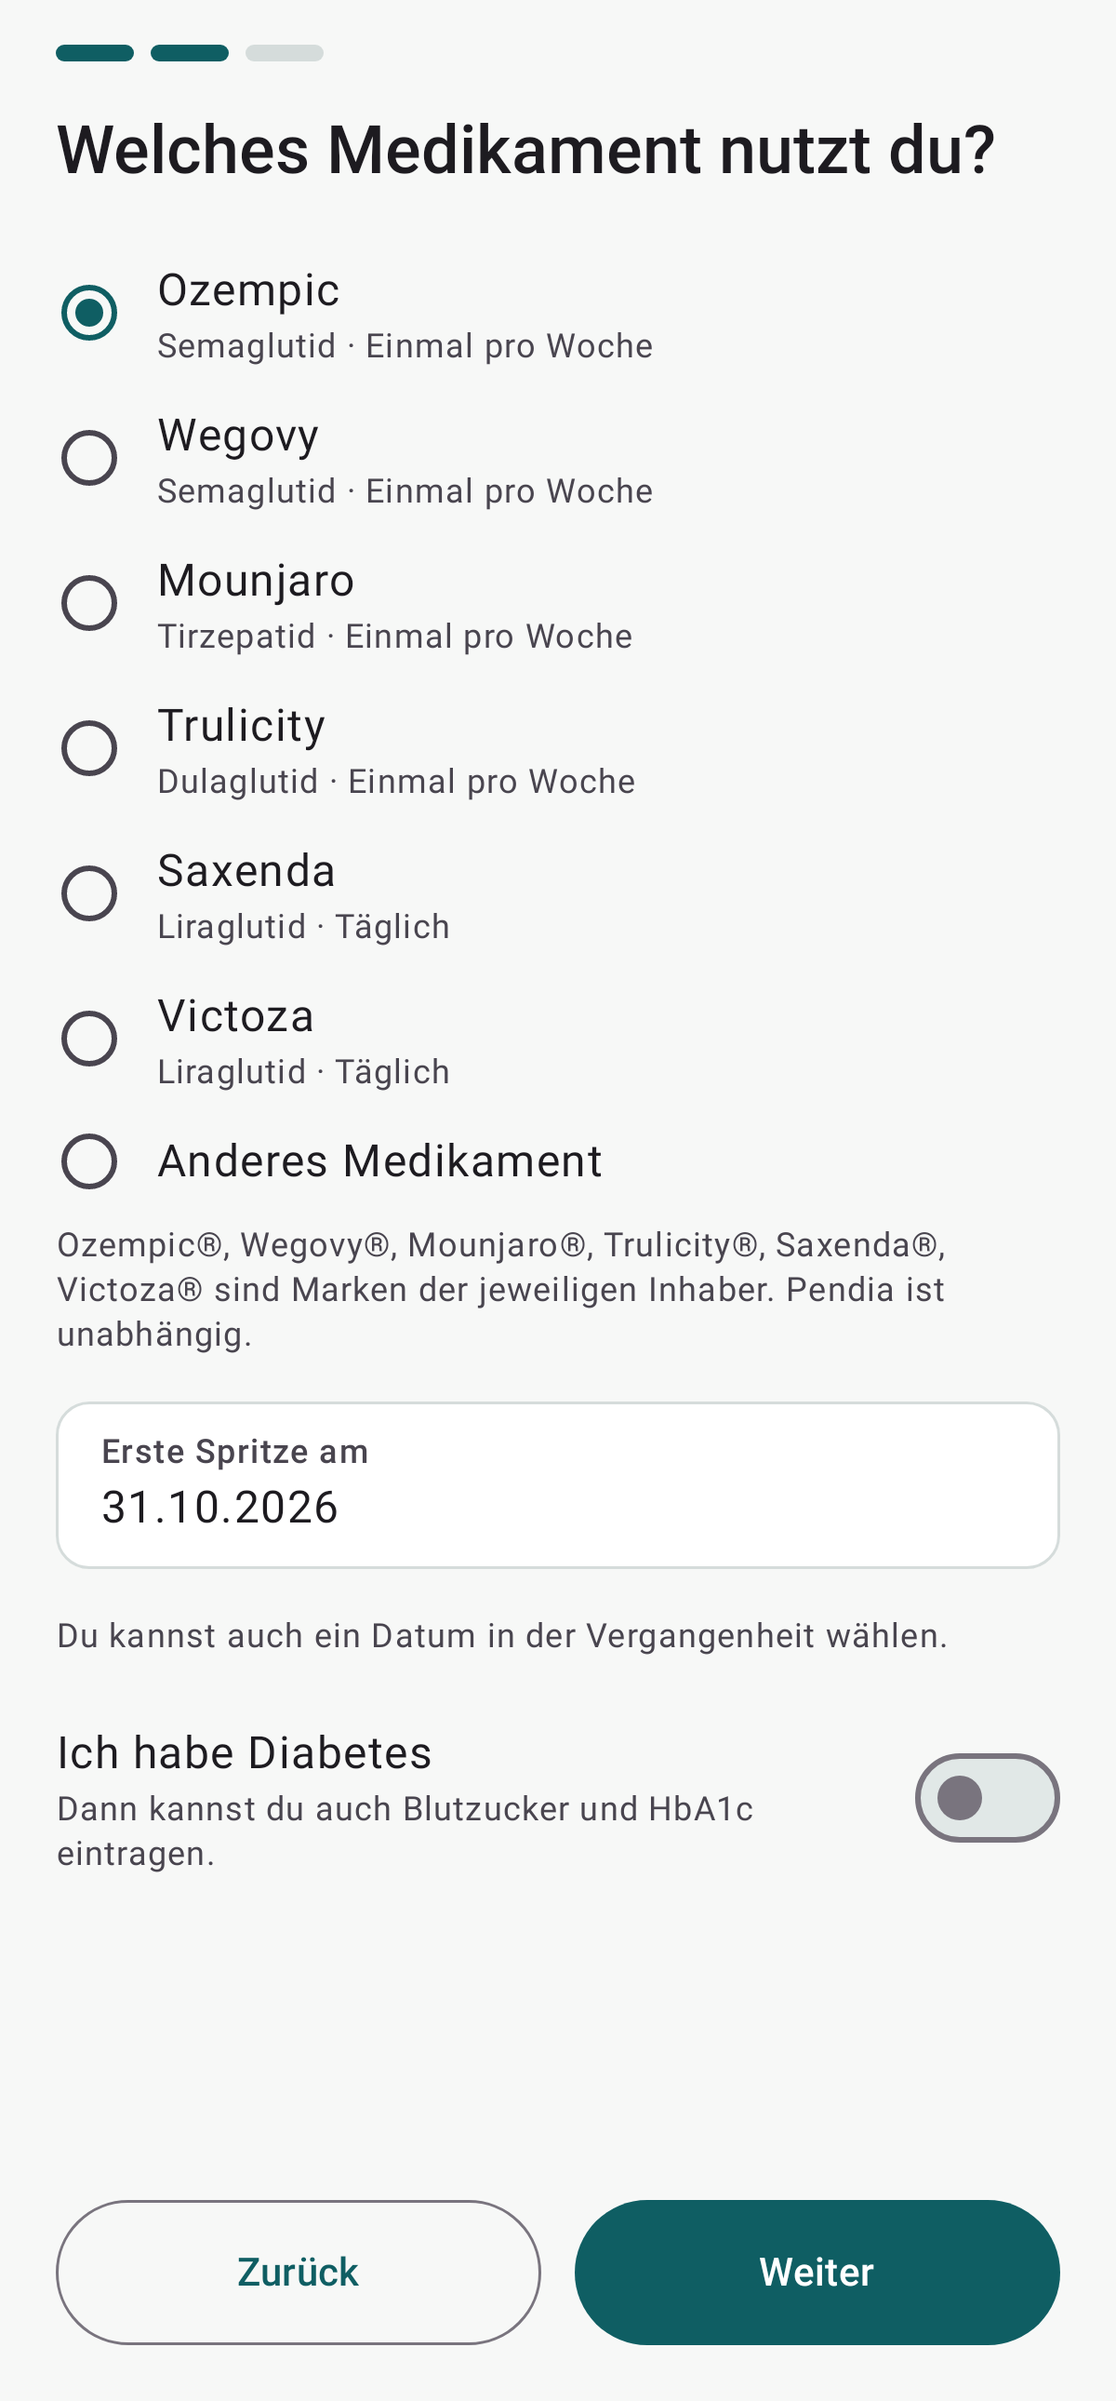
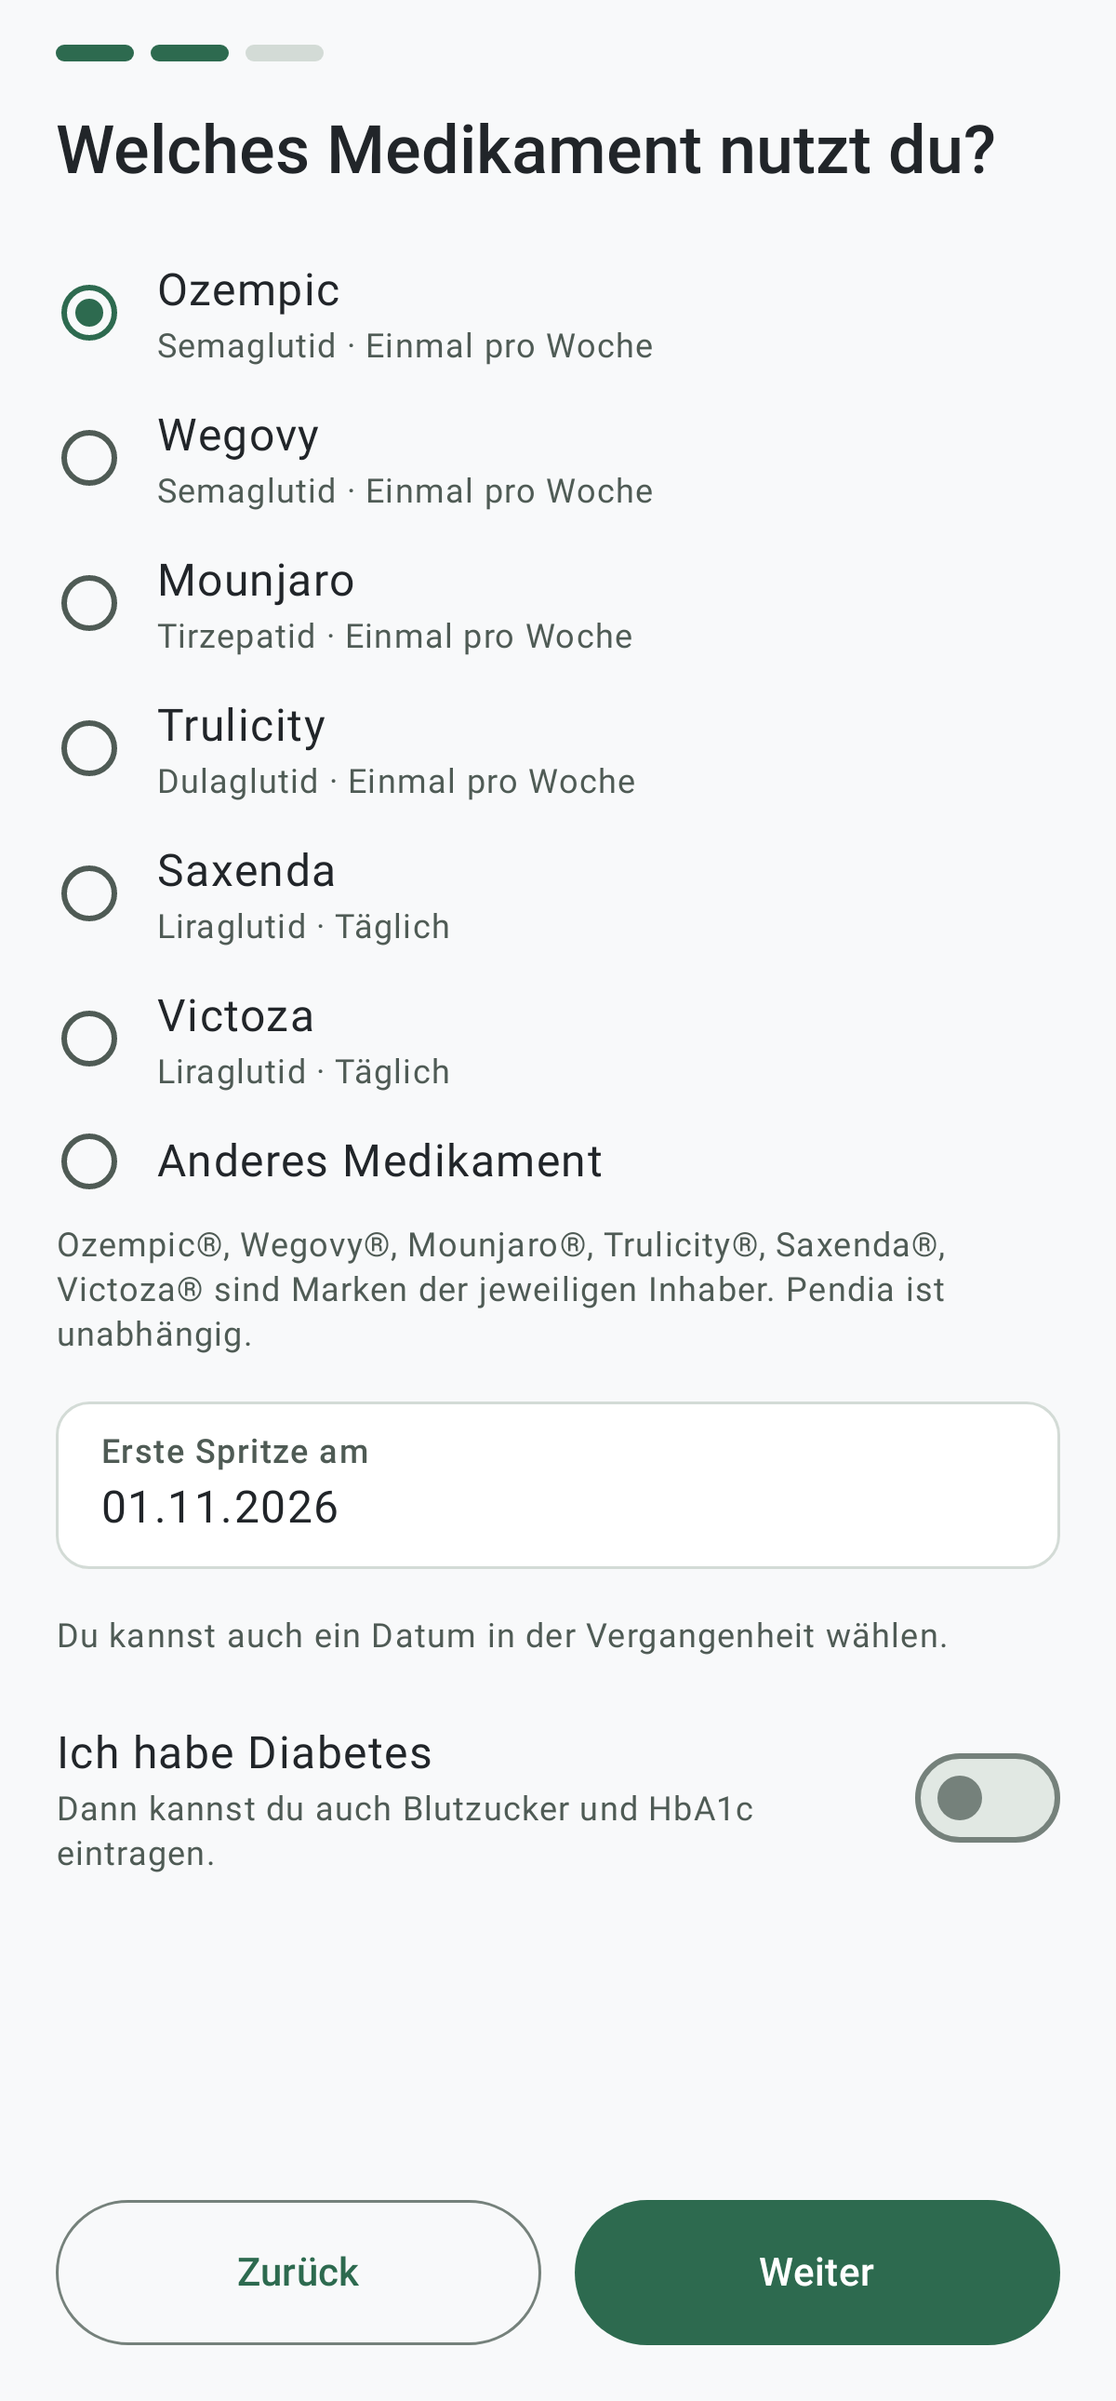
Salbei-Design: vollständige Palette, Kacheln auf dem Start, Design v1, 0.2.0
- Alle Material-Farbrollen in Salbei gesetzt (hell/dunkel), kein Lila mehr
- Start: Überschrift in Großbuchstaben, Kacheln Gewicht und aktuelle Dosis
- Icon, PDF-Bericht und Fensterfarben in Salbei
- docs/design_v1.md mit Farben, Schrift, Abständen, Bausteinen
- Screenshots und Mockups aktualisiert

Claude-Session: https://claude.ai/code/session_01CjtvJJZt4ZNj4rYjp9DVYR

diff --git a/app/src/main/java/app/pendia/ui/screens/Home.kt b/app/src/main/java/app/pendia/ui/screens/Home.kt
@@ -61,8 +61,12 @@ fun HomeScreen(data: AppData, pad: PaddingValues, open: (String) -> Unit) {
     ) {
         item {
             Card(colors = CardDefaults.cardColors(containerColor = MaterialTheme.colorScheme.primaryContainer), modifier = Modifier.fillMaxWidth()) {
-                Column(Modifier.padding(16.dp), verticalArrangement = Arrangement.spacedBy(6.dp)) {
-                    Text(stringResource(R.string.home_next), style = MaterialTheme.typography.labelLarge)
+                Column(Modifier.padding(20.dp), verticalArrangement = Arrangement.spacedBy(6.dp)) {
+                    Text(
+                        stringResource(R.string.home_next).uppercase(loc),
+                        style = MaterialTheme.typography.labelMedium,
+                        color = MaterialTheme.colorScheme.onPrimaryContainer.copy(alpha = 0.7f),
+                    )
                     if (med != null) {
                         val lastForMed = sortedInj.firstOrNull { it.medicationId == med.id }
                         if (lastForMed == null) {
@@ -75,7 +79,7 @@ fun HomeScreen(data: AppData, pad: PaddingValues, open: (String) -> Unit) {
                                 days > 0 -> pluralStringResource(R.plurals.in_days, days, days)
                                 else -> pluralStringResource(R.plurals.overdue_days, -days, -days)
                             }
-                            Text(rel, style = MaterialTheme.typography.headlineMedium, fontWeight = FontWeight.SemiBold)
+                            Text(rel, style = MaterialTheme.typography.headlineMedium, fontWeight = FontWeight.Bold)
                             Text(Fmt.date(next, loc), style = MaterialTheme.typography.bodyMedium)
                             if (days < 0) {
                                 TextButton(onClick = { open("faq:missed_dose") }, contentPadding = PaddingValues(0.dp)) {
@@ -101,6 +105,24 @@ fun HomeScreen(data: AppData, pad: PaddingValues, open: (String) -> Unit) {
             }
         }
 
+        val weights = data.weights.sortedBy { it.date }
+        val lastDose = med?.let { m -> sortedInj.firstOrNull { it.medicationId == m.id }?.doseMg }
+        if (weights.isNotEmpty() || lastDose != null) {
+            item {
+                Row(Modifier.fillMaxWidth(), horizontalArrangement = Arrangement.spacedBy(12.dp)) {
+                    val wText = weights.lastOrNull()?.let { Fmt.num(it.kg, loc, 1) + " kg" } ?: "–"
+                    val wSub = if (weights.size > 1) {
+                        val diff = weights.last().kg - weights.first().kg
+                        stringResource(R.string.home_weight_change, (if (diff > 0) "+" else "") + Fmt.num(diff, loc, 1) + " kg")
+                    } else ""
+                    StatTile(stringResource(R.string.home_weight), wText, wSub, Modifier.weight(1f)) { open("weight") }
+                    val dText = lastDose?.let { Fmt.num(it, loc) + " mg" } ?: "–"
+                    val dSub = med?.let { Catalog.shortName(it, stringResource(R.string.med_other)) } ?: ""
+                    StatTile(stringResource(R.string.home_dose), dText, dSub, Modifier.weight(1f)) { open("injection") }
+                }
+            }
+        }
+
         if (last != null) {
             item {
                 SectionCard(stringResource(R.string.home_last)) {
@@ -113,28 +135,12 @@ fun HomeScreen(data: AppData, pad: PaddingValues, open: (String) -> Unit) {
                                 if (ago == 0) stringResource(R.string.today) else pluralStringResource(R.plurals.days_ago, ago, ago),
                                 style = MaterialTheme.typography.bodyMedium, color = MaterialTheme.colorScheme.onSurfaceVariant,
                             )
-                            last.doseMg?.let { Text(Fmt.num(it, loc) + " mg", style = MaterialTheme.typography.bodyLarge) }
                             Site.of(last.site)?.let { Text(stringResource(it.label), style = MaterialTheme.typography.bodyMedium) }
                         }
                         val recent = sortedInj.mapNotNull { Site.of(it.site) }.distinct().take(4)
                         if (recent.isNotEmpty()) {
                             BodyMap(selected = null, recent = recent, modifier = Modifier.width(96.dp), description = stringResource(R.string.home_sites_recent))
                         }
-                    }
-                }
-            }
-        }
-
-        val weights = data.weights.sortedBy { it.date }
-        if (weights.isNotEmpty()) {
-            item {
-                SectionCard(stringResource(R.string.home_weight)) {
-                    val cur = weights.last()
-                    Text(Fmt.num(cur.kg, loc, 1) + " kg", style = MaterialTheme.typography.headlineSmall, fontWeight = FontWeight.SemiBold)
-                    if (weights.size > 1) {
-                        val diff = cur.kg - weights.first().kg
-                        val sign = if (diff > 0) "+" else ""
-                        Text(stringResource(R.string.home_weight_change, sign + Fmt.num(diff, loc, 1) + " kg"), style = MaterialTheme.typography.bodyMedium)
                     }
                 }
             }
@@ -172,6 +178,21 @@ fun HomeScreen(data: AppData, pad: PaddingValues, open: (String) -> Unit) {
                 style = MaterialTheme.typography.bodySmall, color = MaterialTheme.colorScheme.onSurfaceVariant,
                 modifier = Modifier.padding(top = 4.dp),
             )
+        }
+    }
+}
+
+@Composable
+private fun StatTile(title: String, value: String, sub: String, modifier: Modifier = Modifier, onClick: () -> Unit) {
+    Card(
+        onClick = onClick,
+        colors = CardDefaults.cardColors(containerColor = MaterialTheme.colorScheme.surfaceContainer),
+        modifier = modifier,
+    ) {
+        Column(Modifier.padding(16.dp)) {
+            Text(title.uppercase(locale()), style = MaterialTheme.typography.labelMedium, color = MaterialTheme.colorScheme.onSurfaceVariant)
+            Text(value, style = MaterialTheme.typography.titleLarge, fontWeight = FontWeight.Bold, modifier = Modifier.padding(top = 8.dp))
+            if (sub.isNotBlank()) Text(sub, style = MaterialTheme.typography.bodySmall, color = MaterialTheme.colorScheme.primary, fontWeight = FontWeight.Medium)
         }
     }
 }

diff --git a/app/src/main/java/app/pendia/ui/theme/Theme.kt b/app/src/main/java/app/pendia/ui/theme/Theme.kt
@@ -7,52 +7,90 @@ import androidx.compose.material3.lightColorScheme
 import androidx.compose.runtime.Composable
 import androidx.compose.ui.graphics.Color
 
-val Teal = Color(0xFF0F5E63)
+/**
+ * Salbei-Palette. Alle Farben sind gesetzt, damit keine Material-Standardfarbe (Lila) durchscheint.
+ * Beschreibung und Regeln: docs/design_v1.md
+ */
+val Sage = Color(0xFF2D6A4F)
 val Coral = Color(0xFFF07B62)
 
 private val Light = lightColorScheme(
-    primary = Teal,
+    primary = Sage,
     onPrimary = Color.White,
-    primaryContainer = Color(0xFFD3ECEA),
-    onPrimaryContainer = Color(0xFF00363A),
-    secondary = Color(0xFF4A6365),
+    primaryContainer = Color(0xFFD8F3DC),
+    onPrimaryContainer = Color(0xFF081C15),
+    inversePrimary = Color(0xFF52B788),
+    secondary = Color(0xFF1A759F),
+    onSecondary = Color.White,
+    secondaryContainer = Color(0xFFCBEBD3),
+    onSecondaryContainer = Color(0xFF0B2B1D),
     tertiary = Color(0xFFB4452F),
+    onTertiary = Color.White,
     tertiaryContainer = Color(0xFFFFDAD2),
     onTertiaryContainer = Color(0xFF3D0600),
-    background = Color(0xFFF7F8F7),
+    error = Color(0xFFBA1A1A),
+    onError = Color.White,
+    errorContainer = Color(0xFFFFDAD6),
+    onErrorContainer = Color(0xFF410002),
+    background = Color(0xFFF8F9FA),
+    onBackground = Color(0xFF212529),
     surface = Color.White,
-    surfaceVariant = Color(0xFFE6ECEB),
-    outlineVariant = Color(0xFFD5DCDB),
+    onSurface = Color(0xFF212529),
+    surfaceVariant = Color(0xFFE3EBE6),
+    onSurfaceVariant = Color(0xFF4F5B55),
+    surfaceTint = Sage,
+    inverseSurface = Color(0xFF2E3230),
+    inverseOnSurface = Color(0xFFEFF2F0),
+    outline = Color(0xFF75817B),
+    outlineVariant = Color(0xFFD3DBD6),
+    surfaceBright = Color.White,
+    surfaceDim = Color(0xFFD9DEDB),
     surfaceContainerLowest = Color.White,
-    surfaceContainerLow = Color(0xFFF3F6F5),
-    surfaceContainer = Color(0xFFEDF2F1),
-    surfaceContainerHigh = Color(0xFFE7EDEC),
-    surfaceContainerHighest = Color(0xFFE1E8E7),
-    secondaryContainer = Color(0xFFCDE8E6),
+    surfaceContainerLow = Color(0xFFF3F6F4),
+    surfaceContainer = Color(0xFFEDF2EF),
+    surfaceContainerHigh = Color(0xFFE7EDE9),
+    surfaceContainerHighest = Color(0xFFE1E8E3),
 )
 
 private val Dark = darkColorScheme(
-    primary = Color(0xFF7FD0CF),
-    onPrimary = Color(0xFF003739),
-    primaryContainer = Color(0xFF0F4F53),
-    onPrimaryContainer = Color(0xFFB3ECEA),
-    secondary = Color(0xFFB0CBCB),
+    primary = Color(0xFF52B788),
+    onPrimary = Color(0xFF081C15),
+    primaryContainer = Color(0xFF1B4332),
+    onPrimaryContainer = Color(0xFFD8F3DC),
+    inversePrimary = Sage,
+    secondary = Color(0xFF34A0A4),
+    onSecondary = Color(0xFF003543),
+    secondaryContainer = Color(0xFF1F4A36),
+    onSecondaryContainer = Color(0xFFCFEBD8),
     tertiary = Color(0xFFFFB4A3),
+    onTertiary = Color(0xFF5F1405),
     tertiaryContainer = Color(0xFF7A2A1A),
     onTertiaryContainer = Color(0xFFFFDAD2),
-    background = Color(0xFF111414),
-    surface = Color(0xFF181C1C),
-    surfaceVariant = Color(0xFF2A3131),
-    outlineVariant = Color(0xFF3B4444),
-    surfaceContainerLowest = Color(0xFF0C0F0F),
-    surfaceContainerLow = Color(0xFF161A1A),
-    surfaceContainer = Color(0xFF1A1F1F),
-    surfaceContainerHigh = Color(0xFF242A2A),
-    surfaceContainerHighest = Color(0xFF2F3535),
-    secondaryContainer = Color(0xFF1F4D50),
+    error = Color(0xFFFFB4AB),
+    onError = Color(0xFF690005),
+    errorContainer = Color(0xFF93000A),
+    onErrorContainer = Color(0xFFFFDAD6),
+    background = Color(0xFF121212),
+    onBackground = Color(0xFFE3E3E3),
+    surface = Color(0xFF1A1C1B),
+    onSurface = Color(0xFFE3E3E3),
+    surfaceVariant = Color(0xFF2B312E),
+    onSurfaceVariant = Color(0xFFBFC9C3),
+    surfaceTint = Color(0xFF52B788),
+    inverseSurface = Color(0xFFE3E3E3),
+    inverseOnSurface = Color(0xFF2E3230),
+    outline = Color(0xFF89938D),
+    outlineVariant = Color(0xFF3C4440),
+    surfaceBright = Color(0xFF383B39),
+    surfaceDim = Color(0xFF121212),
+    surfaceContainerLowest = Color(0xFF0E100F),
+    surfaceContainerLow = Color(0xFF1A1C1B),
+    surfaceContainer = Color(0xFF1E211F),
+    surfaceContainerHigh = Color(0xFF282B29),
+    surfaceContainerHighest = Color(0xFF333634),
 )
 
 @Composable
-fun PendiaTheme(content: @Composable () -> Unit) {
-    MaterialTheme(colorScheme = if (isSystemInDarkTheme()) Dark else Light, content = content)
+fun PendiaTheme(darkTheme: Boolean = isSystemInDarkTheme(), content: @Composable () -> Unit) {
+    MaterialTheme(colorScheme = if (darkTheme) Dark else Light, content = content)
 }

diff --git a/app/src/test/java/app/pendia/MockupTest.kt b/app/src/test/java/app/pendia/MockupTest.kt
@@ -206,10 +206,10 @@ class MockupTest {
     fun vorschlagDunkel() = render("02_vorschlag_dunkel", { HealthAppTheme(true) { HealthDashboardScreen() } })
 
     @Test
-    fun pendiaMitSalbei() = render("03_pendia_salbei_hell", { HealthAppTheme(false) { PendiaRoot(app().repo) } }) { seed() }
+    fun pendiaMitSalbei() = render("03_pendia_v2_hell", { app.pendia.ui.theme.PendiaTheme(false) { PendiaRoot(app().repo) } }) { seed() }
 
     @Test
-    fun pendiaMitSalbeiDunkel() = render("04_pendia_salbei_dunkel", { HealthAppTheme(true) { PendiaRoot(app().repo) } }) { seed() }
+    fun pendiaMitSalbeiDunkel() = render("04_pendia_v2_dunkel", { app.pendia.ui.theme.PendiaTheme(true) { PendiaRoot(app().repo) } }) { seed() }
 
     private fun app() = org.robolectric.RuntimeEnvironment.getApplication()
 

diff --git a/app/src/main/java/app/pendia/report/PdfReport.kt b/app/src/main/java/app/pendia/report/PdfReport.kt
@@ -40,8 +40,8 @@ object PdfReport {
             this.color = color
             typeface = if (bold) Typeface.DEFAULT_BOLD else Typeface.DEFAULT
         }
-        val title = paint(20f, true, 0xFF0F5E63.toInt())
-        val h2 = paint(13f, true, 0xFF0F5E63.toInt())
+        val title = paint(20f, true, 0xFF2D6A4F.toInt())
+        val h2 = paint(13f, true, 0xFF2D6A4F.toInt())
         val body = paint(9.5f)
         val head = paint(9.5f, true)
         val small = paint(8f, color = 0xFF5F6B6B.toInt())

diff --git a/app/src/test/java/app/pendia/ScreenshotTest.kt b/app/src/test/java/app/pendia/ScreenshotTest.kt
@@ -92,7 +92,7 @@ class ScreenshotTest {
         shot("03_einrichtung_3")
         rule.onNodeWithText("Pendia starten").performClick()
         rule.waitForIdle()
-        rule.onNodeWithText("Nächste Spritze").assertExists()
+        rule.onNodeWithText("NÄCHSTE SPRITZE").assertExists()
         shot("04_start_leer")
     }
 

diff --git a/docs/design_v1.md b/docs/design_v1.md
@@ -1,0 +1,78 @@
+# Pendia – Design v1
+
+Stand: 01.11.2026 · Version 1 · gilt ab App-Version 0.2.0
+
+Diese Datei legt fest, wie Pendia aussieht. Neue Bildschirme halten sich daran. Der Code dazu steht in `app/src/main/java/app/pendia/ui/theme/Theme.kt`.
+
+## Grundgefühl
+
+Ruhig, freundlich, medizinisch, aber nicht klinisch kalt. Wenig Farbe, viel Weißraum, eine klare Hauptaktion pro Bildschirm.
+
+## Farben (Salbei)
+
+| Rolle | Hell | Dunkel | Wofür |
+|---|---|---|---|
+| primary | `#2D6A4F` | `#52B788` | Hauptknöpfe, aktive Navigation, Kurven, ausgewählte Stelle |
+| primaryContainer | `#D8F3DC` | `#1B4332` | Karte „Nächste Spritze“ |
+| secondary | `#1A759F` | `#34A0A4` | sparsam für Zusatzinfos, nicht für Knöpfe |
+| secondaryContainer | `#CBEBD3` | `#1F4A36` | Markierung im Navigationsbalken, gewählte Chips |
+| tertiary / Container | `#B4452F` / `#FFDAD2` | `#FFB4A3` / `#7A2A1A` | Warnzeichen-Karte, Hinweis „Wichtig“ |
+| Koralle (Akzent) | `#F07B62` | `#F07B62` | zuletzt genutzte Stellen auf der Körperkarte, Tropfen im Icon |
+| error | `#BA1A1A` | `#FFB4AB` | Fehler in Formularen, Löschen, Pen abgelaufen |
+| background | `#F8F9FA` | `#121212` | Seitenhintergrund |
+| surface | `#FFFFFF` | `#1A1C1B` | Karten |
+| surfaceContainer | `#EDF2EF` | `#1E211F` | Kacheln, Navigationsbalken |
+| onSurface | `#212529` | `#E3E3E3` | Fließtext |
+| onSurfaceVariant | `#4F5B55` | `#BFC9C3` | Nebentext, Beschriftungen |
+| outlineVariant | `#D3DBD6` | `#3C4440` | Kartenrahmen, Trennlinien |
+
+**Regeln**
+- Alle Material-Farbrollen sind gesetzt. Neue Farben kommen nur über das Theme, nie fest im Bildschirm.
+- Rot nur für Fehler und Löschen. Warnungen in Koralle (tertiary), damit Rot seine Wirkung behält.
+- Koralle sparsam: Körperkarte, Icon, Warnkarte.
+- Kontrast mindestens 4,5:1 für Text. Weiß auf `#2D6A4F` liegt bei etwa 6:1.
+
+## Schrift
+
+Material-3-Standard (Roboto), keine eigene Schrift.
+
+| Stil | Einsatz |
+|---|---|
+| headlineMedium, fett | Hauptaussage („Heute“, „in 3 Tagen“) |
+| titleLarge, fett | Werte in Kacheln („95 kg“, „7,5 mg“) |
+| titleMedium | Kartentitel |
+| labelMedium, GROSSBUCHSTABEN, 70 % Deckkraft | Überschriften über Werten („NÄCHSTE SPRITZE“, „GEWICHT“) |
+| bodyLarge / bodyMedium | Text, Listen |
+| bodySmall | Hinweise, Quellen |
+
+## Abstände und Formen
+
+- Raster 4 dp. Seitenrand 16 dp, Abstand zwischen Karten 12 dp, Innenabstand Karten 16 dp, Hauptkarte 20 dp.
+- Ecken: Material-Standard (Karten 12 dp, Knöpfe rund).
+- Hauptknopf 52 dp hoch, volle Breite.
+- Tippflächen mindestens 48 dp.
+
+## Bausteine
+
+| Baustein | Aussehen | Wo |
+|---|---|---|
+| Hauptkarte | primaryContainer, Label in Großbuchstaben, großer Wert, Hauptknopf | Start: nächste Spritze |
+| Kachel (StatTile) | surfaceContainer, Label groß geschrieben, Wert fett, Untertext in primary; antippbar | Start: Gewicht, aktuelle Dosis |
+| Abschnittskarte (SectionCard) | surface mit dünnem Rahmen, Titel | Letzte Spritze, Pen, Verlauf, Einstellungen |
+| Warnkarte | tertiaryContainer mit Warnsymbol | Warnzeichen, Hinweis „Wichtig“ |
+| Körperkarte | Silhouette in surfaceVariant, freie Stellen als Ring, gewählte Stelle primary, letzte Stellen Koralle (verblassend) | Spritze eintragen, Start |
+| Formular | Zurück oben, Speichern unten volle Breite über der Navigationsleiste | alle Eingaben |
+
+## Texte
+
+- Du-Form, kurze Sätze, Verben auf Knöpfen („Spritze eintragen“, „Daten exportieren“).
+- Fehlertexte sagen, was zu tun ist, und geben niemandem die Schuld („Gib eine Zahl ein, z. B. 82,5“).
+- Löschen immer mit Rückfrage, die nennt, was gelöscht wird.
+
+## Icon
+
+„p“ mit Pen als Stamm und Tropfen in Koralle, auf `#2D6A4F`. Vektor in `res/drawable/ic_launcher_*.xml`, monochrome Variante für Android-Themen-Icons.
+
+## Änderungen
+
+- v1 (01.11.2026): Wechsel von Petrol (`#0F5E63`) auf Salbei. Kacheln und Label in Großbuchstaben aus dem Mockup übernommen.

diff --git a/README.md b/README.md
@@ -8,6 +8,7 @@ Android-App (APK) für Menschen, die eine GLP-1-Spritze nutzen (Typ-2-Diabetes o
 - [Icon-Entwürfe](docs/icon/)
 - [Signierte Version bauen v1](docs/release_anleitung_v1.md)
 - [Datenschutzerklärung, Entwurf v1](docs/datenschutz_v1.md)
+- [Design v1 (Salbei)](docs/design_v1.md)
 
 ## APK holen
 
